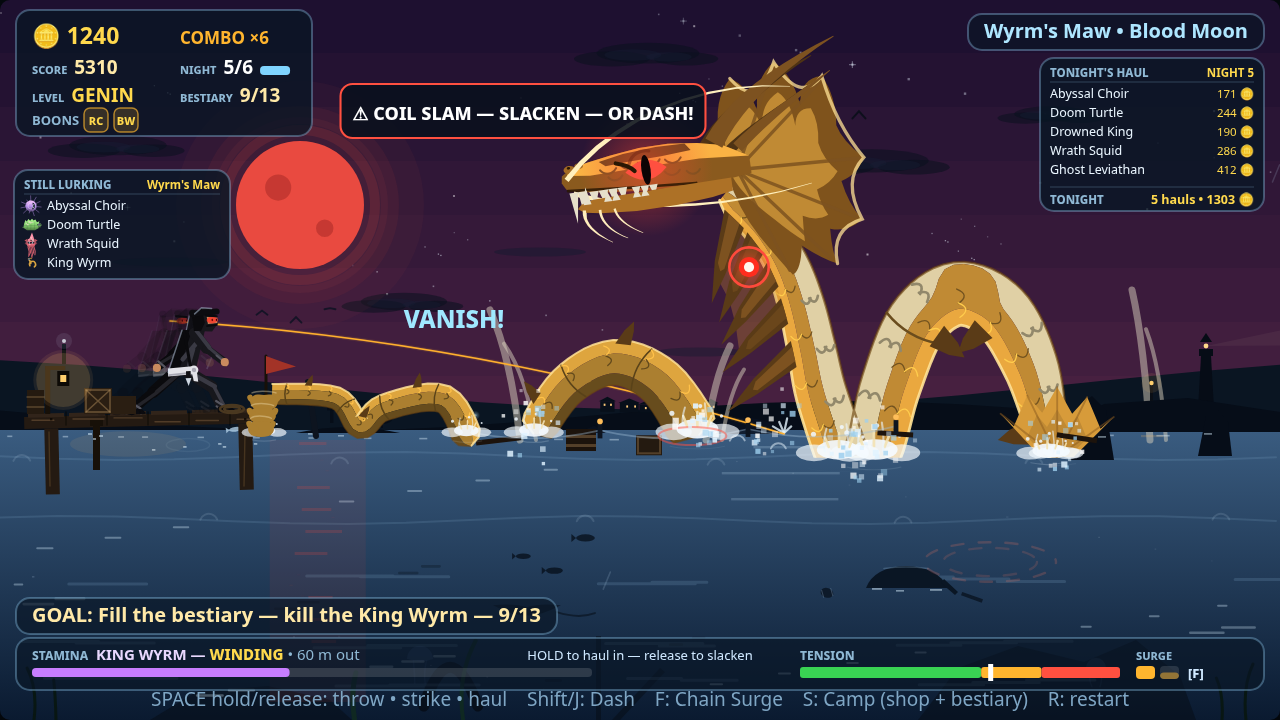
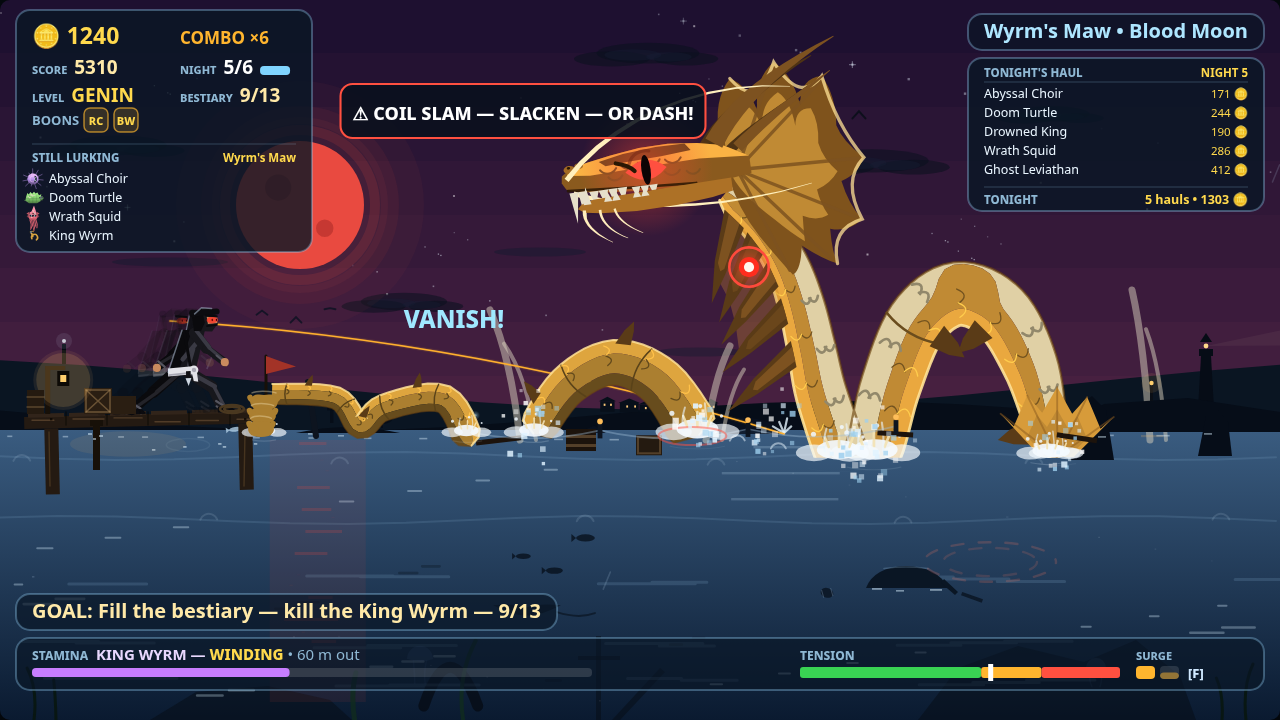
WYRMWAKE: HUD cleanup — one panel language

diff --git a/game/src/panels.js b/game/src/panels.js
@@ -1,7 +1,6 @@
-// panels.js — one job: the two side panels that flank the hunt. Left,
-// STILL LURKING: what this sea still hides. Right, TONIGHT'S HAUL: what
-// the night has paid so far. Compact by design: the left panel must end
-// above the hunter's head, the right one hangs under the location chip.
+// panels.js — one job: the hunt's side sections. STILL LURKING rides
+// inside the HUD's one left panel (ui.js sizes the box with lurkH);
+// TONIGHT'S HAUL hangs under the location chip at the same width.
 import { MONSTERS, SEAS, poolFor } from './data.js';
 import { text, panel } from './ui.js';
 import { drawFishShape } from './vendor/shapes.js';
@@ -13,40 +12,43 @@ function monsterIcon(ctx, m, x, y, t) {
   void t;
 }
 
+// the STILL LURKING section's height, divider included — ui.js adds
+// it to the vitals box so the left column reads as one panel
+export function lurkH(run) {
+  const n = poolFor(run.sea).filter((i) => run.bestiary[i].count === 0).length;
+  if (!n) return 45;
+  const rows = Math.min(5, n);
+  return 26 + rows * 19 + (n > rows ? 19 : 6);
+}
+
 function drawLurking(ctx, run, view) {
-  const x = 14;
-  const y = 170;
-  const w = 216;
+  const x = 16, w = 296;
+  const D = run.boons.length ? 144 : 124; // the divider: vitals base + 8 (ui.js)
   const lurking = poolFor(run.sea).filter((i) => run.bestiary[i].count === 0);
-  const rows = Math.min(5, lurking.length);
-  const more = lurking.length - rows;
-  const rowsTop = y + 27;
-  const afterRows = rowsTop + rows * 19;
-  const h = lurking.length === 0 ? 52 : (more > 0 ? afterRows + 19 - y : afterRows + 6 - y);
-  panel(ctx, x, y, w, h, 0.8);
-  text(ctx, 'STILL LURKING', x + 10, y + 19, 11.5, '#8fb8d4', 'left', 800);
-  text(ctx, SEAS[run.sea].name, x + w - 10, y + 19, 11.5, '#ffd94d', 'right', 700);
   ctx.strokeStyle = 'rgba(150,210,245,0.25)';
   ctx.lineWidth = 1;
   ctx.beginPath();
-  ctx.moveTo(x + 10, y + 24);
-  ctx.lineTo(x + w - 10, y + 24);
+  ctx.moveTo(x + 16, D);
+  ctx.lineTo(x + w - 16, D);
   ctx.stroke();
+  text(ctx, 'STILL LURKING', x + 16, D + 18, 11.5, '#8fb8d4', 'left', 800);
+  text(ctx, SEAS[run.sea].name, x + w - 16, D + 18, 11.5, '#ffd94d', 'right', 700);
   if (lurking.length === 0) {
-    text(ctx, 'This sea is emptied — sail on.', x + 10, y + 43, 12, '#7fd4a8', 'left', 400);
+    text(ctx, 'This sea is emptied — sail on.', x + 16, D + 39, 12, '#7fd4a8', 'left', 400);
     return;
   }
+  const rows = Math.min(5, lurking.length);
   for (let r = 0; r < rows; r++) {
     const m = MONSTERS[lurking[r]];
-    const base = rowsTop + 13 + r * 19;
+    const base = D + 39 + r * 19;
     monsterIcon(ctx, m, x + 17, base - 4, view.t);
     text(ctx, m.name, x + 33, base, 12.5, '#eaf6ff', 'left', 400);
   }
-  if (more > 0) text(ctx, `+${more} more in the dark`, x + 33, afterRows + 14, 11.5, '#5f7d99', 'left', 400);
+  if (lurking.length > rows) text(ctx, `+${lurking.length - rows} more in the dark`, x + 33, D + 39 + rows * 19, 11.5, '#5f7d99', 'left', 400);
 }
 
-function drawTonight(ctx, run) {
-  const w = 224;
+function drawTonight(ctx, run, view) {
+  const w = view.haulW || 224; // one width with the location chip (ui.js)
   const x = 1264 - w;
   const y = 58; // tucked up under the location chip (its base is y50):
   // an 8px gap instead of floating far below it — pixel-checked
@@ -57,32 +59,32 @@ function drawTonight(ctx, run) {
   const afterRows = rowsTop + Math.max(1, latest.length) * 19;
   const totalBase = afterRows + 24;
   panel(ctx, x, y, w, totalBase + 7 - y, 0.8);
-  text(ctx, "TONIGHT'S HAUL", x + 10, y + 19, 11.5, '#8fb8d4', 'left', 800);
-  text(ctx, `NIGHT ${run.night}`, x + w - 10, y + 19, 11.5, '#ffd94d', 'right', 700);
+  text(ctx, "TONIGHT'S HAUL", x + 16, y + 19, 11.5, '#8fb8d4', 'left', 800);
+  text(ctx, `NIGHT ${run.night}`, x + w - 16, y + 19, 11.5, '#ffd94d', 'right', 700);
   ctx.strokeStyle = 'rgba(150,210,245,0.25)';
   ctx.lineWidth = 1;
   ctx.beginPath();
-  ctx.moveTo(x + 10, y + 24);
-  ctx.lineTo(x + w - 10, y + 24);
+  ctx.moveTo(x + 16, y + 24);
+  ctx.lineTo(x + w - 16, y + 24);
   ctx.stroke();
   if (latest.length === 0) {
-    text(ctx, 'No hauls yet tonight', x + 10, rowsTop + 13, 12, '#5f7d99', 'left', 400);
+    text(ctx, 'No hauls yet tonight', x + 16, rowsTop + 13, 12, '#5f7d99', 'left', 400);
   }
   latest.forEach((hh, r) => {
     const base = rowsTop + 13 + r * 19;
-    text(ctx, MONSTERS[hh.mi].name, x + 10, base, 12.5, '#eaf6ff', 'left', 400);
-    text(ctx, `${hh.coins} 🪙`, x + w - 10, base, 11.5, '#ffd94d', 'right', 400);
+    text(ctx, MONSTERS[hh.mi].name, x + 16, base, 12.5, '#eaf6ff', 'left', 400);
+    text(ctx, `${hh.coins} 🪙`, x + w - 16, base, 11.5, '#ffd94d', 'right', 400);
   });
   ctx.beginPath();
-  ctx.moveTo(x + 10, afterRows + 7);
-  ctx.lineTo(x + w - 10, afterRows + 7);
+  ctx.moveTo(x + 16, afterRows + 7);
+  ctx.lineTo(x + w - 16, afterRows + 7);
   ctx.stroke();
   const ns = run.nightStats || { hauls: 0, coins: 0 };
-  text(ctx, 'TONIGHT', x + 10, totalBase, 11.5, '#8fb8d4', 'left', 800);
-  text(ctx, `${ns.hauls} hauls • ${ns.coins} 🪙`, x + w - 10, totalBase, 12.5, '#ffd94d', 'right', 700);
+  text(ctx, 'TONIGHT', x + 16, totalBase, 11.5, '#8fb8d4', 'left', 800);
+  text(ctx, `${ns.hauls} hauls • ${ns.coins} 🪙`, x + w - 16, totalBase, 12.5, '#ffd94d', 'right', 700);
 }
 
 export function drawHuntPanels(ctx, run, view) {
   drawLurking(ctx, run, view);
-  drawTonight(ctx, run);
+  drawTonight(ctx, run, view);
 }

diff --git a/game/src/ui.js b/game/src/ui.js
@@ -5,7 +5,7 @@ import { MONSTERS, SEAS, WEATHERS, BOONS, SEASON_NIGHTS, NIGHT_SECONDS, DIFFICUL
 import { journalCount } from './state.js';
 import { staminaWord, snapPoint } from './fight.js';
 import { lurePos, WATER_Y } from './render.js';
-import { drawHuntPanels } from './panels.js';
+import { drawHuntPanels, lurkH } from './panels.js';
 
 const F = (px, w = 700) => `${w} ${px}px system-ui, 'Segoe UI', sans-serif`;
 export function rr(ctx, x, y, w, h, r) {
@@ -83,16 +83,13 @@ function drawBoonPips(ctx, run, x, y, withLabel = true) {
 }
 
 export function drawHUD(ctx, run, view) {
-  // ONE compact panel at the top-left corner holds the run's vitals —
-  // coin, combo, score, night, level, bestiary in a two-column grid,
-  // and the BOONS pips as a fourth row when any are held: then the
-  // panel stretches a row taller, tightens its spacing and rides 4px
-  // up, so its base (y136) still clears the Blood Moon (top y≈141).
-  // The rest of the top edge is open sky but for the location chip;
-  // the goal rides as a chip at the bottom-left, above the fight strip.
+  // ONE panel at the top-left holds the whole left column: the run's
+  // vitals in a two-column grid (BOONS pips as a fourth row when any
+  // are held), then a hairline, then STILL LURKING below it — one box,
+  // one silhouette. The goal rides as a chip above the fight strip.
   const hasB = run.boons.length > 0;
   const top = hasB ? 10 : 14, r1 = hasB ? 44 : 48, r2 = hasB ? 74 : 78, r3 = hasB ? 102 : 106;
-  panel(ctx, 16, top, 296, hasB ? 126 : 102, 0.78);
+  panel(ctx, 16, top, 296, (hasB ? 126 : 102) + 8 + lurkH(run), 0.8);
   text(ctx, `🪙 ${run.coins}`, 32, r1, 23, '#ffd94d');
   const comboScale = view.comboPop > 0 ? 1 + 0.45 * view.comboPop : 1;
   ctx.save();
@@ -122,10 +119,11 @@ export function drawHUD(ctx, run, view) {
   cell(180, r3, 'BESTIARY', `${journalCount(run)}/13`, '#ffe9a8');
   const goalStr = `GOAL: Fill the bestiary — kill the King Wyrm — ${journalCount(run)}/13`;
   ctx.font = F(20);
-  panel(ctx, 16, 598, ctx.measureText(goalStr).width + 32, 36, 0.66);
-  text(ctx, goalStr, 32, 622, 20, '#ffe9a8');
+  panel(ctx, 16, 594, ctx.measureText(goalStr).width + 32, 36, 0.66);
+  text(ctx, goalStr, 32, 618, 20, '#ffe9a8');
   const locStr = `${SEAS[run.sea].name} • ${WEATHERS[run.weatherIdx].name}`;
   const locW = ctx.measureText(locStr).width + 32;
+  view.haulW = Math.max(224, locW);
   panel(ctx, 1264 - locW, 14, locW, 36, 0.66);
   text(ctx, locStr, 1248, 38, 20, '#aee6ff', 'right');
   drawBoonPips(ctx, run, 32, 108); // the panel's fourth row (no-op when no boons are held)
@@ -171,7 +169,6 @@ export function drawHUD(ctx, run, view) {
     rr(ctx, 32, 668, 560 * Math.max(0, f.stamina / 100), 9, 4);
     ctx.fill();
     if (f.surgeT > 0) text(ctx, 'CHAIN SURGING!', 640, 660, 14, '#ffb52e', 'center', 800);
-    else text(ctx, 'HOLD to haul in — release to slacken', 640, 660, 13, '#cfe8ff', 'center', 400);
     text(ctx, 'TENSION', 800, 660, 12, '#8fb8d4', 'left', 800);
     const snapAt = snapPoint(run);
     const zx = (t) => 800 + (t / snapAt) * 320;
@@ -204,7 +201,6 @@ export function drawHUD(ctx, run, view) {
   } else {
     text(ctx, 'HOLD SPACE to charge your throw', 640, 640, 24, '#8fb8d4', 'center');
   }
-  text(ctx, 'SPACE hold/release: throw • strike • haul    Shift/J: Dash    F: Chain Surge    S: Camp (shop + bestiary)    R: restart', 640, 706, 19, '#7fa6c4', 'center', 400);
   drawHuntPanels(ctx, run, view);
 }
 
